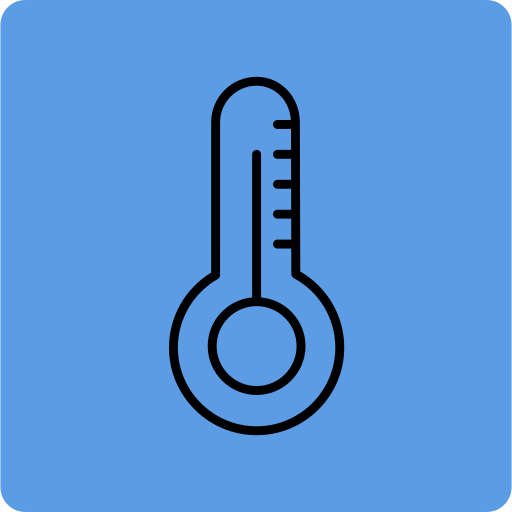
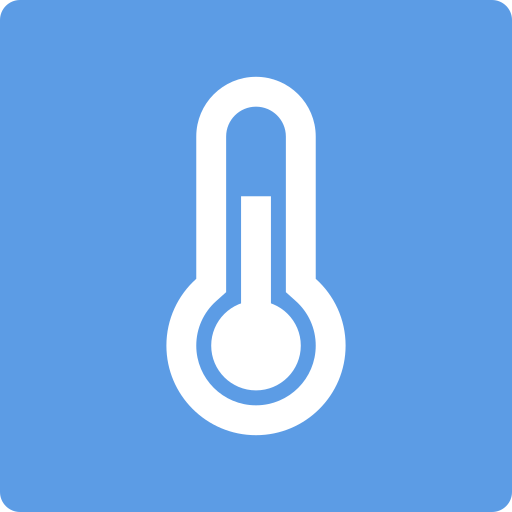
one carrd done Bravo six going dark

diff --git a/src/components/RightbottomCard.js b/src/components/RightbottomCard.js
@@ -1,33 +1,27 @@
 import React from 'react';
 import { Stack } from '@mui/material';
 import '../App.css';
+import Thermometer from '../assests/Thermometer.png';
 
 const RightbottomCard = () => {
   return (
     <Stack>
         <div className='card'>
-        <div class="title">
-        <span>
-            <svg width="20" fill="currentColor" height="20" viewBox="0 0 1792 1792" xmlns="http://www.w3.org/2000/svg">
-                <path d="M1362 1185q0 153-99.5 263.5t-258.5 136.5v175q0 14-9 23t-23 9h-135q-13 0-22.5-9.5t-9.5-22.5v-175q-66-9-127.5-31t-101.5-44.5-74-48-46.5-37.5-17.5-18q-17-21-2-41l103-135q7-10 23-12 15-2 24 9l2 2q113 99 243 125 37 8 74 8 81 0 142.5-43t61.5-122q0-28-15-53t-33.5-42-58.5-37.5-66-32-80-32.5q-39-16-61.5-25t-61.5-26.5-62.5-31-56.5-35.5-53.5-42.5-43.5-49-35.5-58-21-66.5-8.5-78q0-138 98-242t255-134v-180q0-13 9.5-22.5t22.5-9.5h135q14 0 23 9t9 23v176q57 6 110.5 23t87 33.5 63.5 37.5 39 29 15 14q17 18 5 38l-81 146q-8 15-23 16-14 3-27-7-3-3-14.5-12t-39-26.5-58.5-32-74.5-26-85.5-11.5q-95 0-155 43t-60 111q0 26 8.5 48t29.5 41.5 39.5 33 56 31 60.5 27 70 27.5q53 20 81 31.5t76 35 75.5 42.5 62 50 53 63.5 31.5 76.5 13 94z">
-                </path>
-            </svg>
-        </span>
-        <p class="title-text">
-            Sales
-        </p>
-        <p class="percent">
-           <svg xmlns="http://www.w3.org/2000/svg" viewBox="0 0 1792 1792" fill="currentColor" height="20" width="20">
-                <path d="M1408 1216q0 26-19 45t-45 19h-896q-26 0-45-19t-19-45 19-45l448-448q19-19 45-19t45 19l448 448q19 19 19 45z">
-                </path>
-            </svg> 20%
-        </p>
-    </div>
+            <div class="title">
+                <p class="title-text">
+                    Feels Like</p>
+                <img src={Thermometer} width={'30px'} style={{borderRadius:'5px'}}/>
+            </div>
+
     <div class="data">
         <p>
-            39,500 
+            30°
         </p>
-        
+        <Stack direction={'row'} style={{justifyContent:'space-between',color:'#dcdcdc',fontWeight:'bold'}}>
+                <span>0°</span>
+                <span>25°</span>
+                <span>50°</span>
+            </Stack>
         <div class="range">
             <div class="fill">
             </div>

diff --git a/src/App.css b/src/App.css
@@ -63,65 +63,54 @@
 }
 
 .card {
-  padding: 1rem;
+  padding: 0.3rem 1rem 1rem 1rem;
   background-color: #fff;
   box-shadow: 0 10px 15px -3px rgba(0, 0, 0, 0.1), 0 4px 6px -2px rgba(0, 0, 0, 0.05);
-  max-width: 320px;
+  max-width: 280px;
   border-radius: 20px;
 }
 
 .title {
+  margin-top: none;
+  padding: none ;
   display: flex;
   align-items: center;
+  justify-content: space-between;
+  margin-left: 5px;
+  margin-right: 15px;
 }
 
-.title span {
-  position: relative;
-  padding: 0.5rem;
-  background-color: #10B981;
-  width: 1.5rem;
-  height: 1.5rem;
-  border-radius: 9999px;
-}
-
-.title span svg {
-  position: absolute;
-  top: 50%;
-  left: 50%;
-  transform: translate(-50%, -50%);
-  color: #ffffff;
-  height: 1rem;
-}
 
 .title-text {
+  margin-right: 0.5rem;
   margin-left: 0.5rem;
   color: #374151;
+  font-weight: 700;
   font-size: 18px;
 }
 
-.percent {
-  margin-left: 0.5rem;
-  color: #02972f;
-  font-weight: 600;
-  display: flex;
-}
+
 
 .data {
   display: flex;
   flex-direction: column;
-  justify-content: flex-start;
+  justify-content: center;
 }
 
 .data p {
-  margin-top: 1rem;
-  margin-bottom: 1rem;
+  margin-top: 0;
+  margin-bottom: 1.5rem;
   color: #1F2937;
   font-size: 2.25rem;
   line-height: 2.5rem;
   font-weight: 700;
-  text-align: left;
+  text-align: center;
 }
-
+.data{
+  margin-left: 10%;
+  justify-content: center;
+  width: 80%;
+}
 .data .range {
   position: relative;
   background-color: #E5E7EB;
@@ -134,8 +123,8 @@
   position: absolute;
   top: 0;
   left: 0;
-  background-color: #10B981;
-  width: 76%;
+  background-color: #5c9ce5;
+  width: 60%;
   height: 100%;
   border-radius: 0.25rem;
 }
